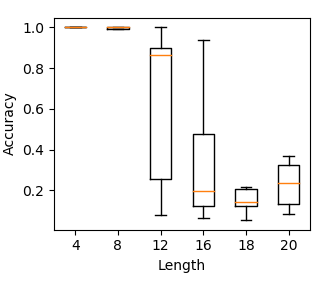
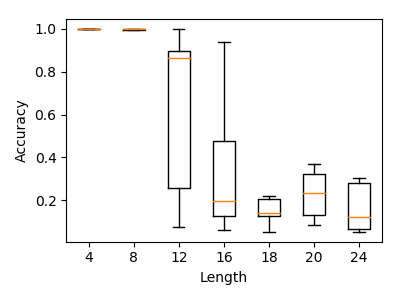
Add LSTM

Changed region(s): [[0.0, 0.0561, 0.9846, 0.9544], [0.3077, 0.0842, 0.4, 0.1123]]

diff --git a/assignment_2/report/DanielDaza-report2.tex b/assignment_2/report/DanielDaza-report2.tex
@@ -197,13 +197,13 @@ We observe an important difference in the gradients: while the gradient with res
 
 For this question we implemented the RNN equations as described in equations \ref{eq:rnn1} to \ref{eq:rnn2} using PyTorch, in order to compute the gradients with its automatic differentiation engine. 
 
-We train an RNN in the task of predicting the last digit of a palindrome number. We use a hidden size of 128, with He initialization \cite{he2015delving}, and the RMSProp optimizer with a learning rate of 0.001. We additionally clip the norm of the gradients to a maximum of 10, to avoid exploding gradients, as shown to be of importance in the last sections when doing backpropagation on RNNs.
+We train an RNN in the task of predicting the last digit of a palindrome number. We initialize the weight matrices with a uniform distribution $\mathcal{U}(-1/\sqrt{n_h}, 1/\sqrt{n_h})$, where $n_h$ is the dimension of the hidden state; and biases are initialized with zeros. We use a hidden size of 128, and the RMSProp optimizer with a learning rate of 0.001. We additionally clip the norm of the gradients to a maximum of 10, to avoid exploding gradients, as shown to be of importance in the last sections when doing backpropagation on RNNs.
 
 \subsection*{Question 1.3}
 
 We study the performance of the RNN for sequences of different lengths. We start with sequences of length 5, for which the model achieves an accuracy of 100\% in a small number of iterations. When increasing the length, more iterations are required and the final accuracy is lower. This is shown in Figure \ref{fig:rnn_acc_curves}.
 
-We experiment with increasing sequence lengths, from 4 to 20, and for each length we run 10 experiments in order to evaluate the variance of the results. As shown in Figure \ref{fig:rnn_acc_box}, training on sequences of length 4 yields an accuracy of 100\% almost always. As the length increases, the variance grows as well, and at length 12 we observe the highest variance. This indicates that in this setting, the random initialization of the parameters might produce a very accurate model, or a model with random performance, revealing a high sensitivity on the parameter initialization. For lengths higher than 16 the final performance is consistently lower. These results highlight that RNNs are problematic when modeling long sequences.
+We experiment with increasing sequence lengths, from 4 to 24, and for each length we run 10 experiments in order to evaluate the variance of the results. As shown in Figure \ref{fig:rnn_acc_box}, training on sequences of length 4 yields an accuracy of 100\% almost always. As the length increases, the variance grows as well, and at length 12 we observe the highest variance. This indicates that in this setting, the random initialization of the parameters might produce a very accurate model, or a model with random performance, revealing a high sensitivity on the parameter initialization. For lengths higher than 16 the final performance is consistently lower. These results demonstrate the fact that RNNs are problematic when modeling long sequences.
 
 \begin{figure}[t]
 \begin{subfigure}{0.49\textwidth}
@@ -227,15 +227,29 @@ We experiment with increasing sequence lengths, from 4 to 20, and for each lengt
 \label{fig:rnn_acc_box}
 \end{figure}
 
+\subsection*{Question 1.4}
 
+When doing optimization with Stochastic Gradient Descent (SGD), we update the parameters in the direction of the gradient of the loss function. This means that two parameter settings for which the gradient is the same, will be updated equally. This can be a limitation if the curvature of the loss function at the two points is different: if the curvature at a point is very low, the update will produce a small change in the loss, while if the curvature is high, the update can make a change too big in the loss function, which might end up at an even higher point. Therefore, it is sensible to include second order information of the gradient that takes into account the curvature of the loss function when updating the parameters.
 
-We run each experiment multiple times as we observed results would vary as sequence length increased
+A direct way to include second order information is to calculate the Hessian matrix, which contains the second derivatives of the loss with respect to all pairs of parameters in the network. As a consequence, evaluating this matrix has a complexity of $O(W^2)$ where $W$ is the number of parameters \cite{bishop2006pattern}. In deep learning, the number of parameters can be on the order of millions, which motivates finding alternative methods that consider curvature in the parameter updates. Two of these include momentum and adaptive learning rate.
 
-Loss curves for T = 5, 10, 15, 20
+When using momentum, we update the parameters with a moving average of the gradient, instead of the gradient only. In this way, every update takes into account previous values of the gradient, producing updates that are smoother than those of SGD.
 
-Box plots for accuracy of T = 5:20
+In SGD, every parameter is updated with the gradient multiplied by the same learning rate. During training, however, some parameters might be near the values of convergence, whereas other still need to be adjusted. It is thus reasonable to adapt the learning rate to each parameter, so that each one is affected only by its own influence on the loss function. Methods like RMSProp implement this by keeping a moving average of the squared gradients, whose inverse is used to multiply the gradient element-wise, effectively adjusting the gradients on different scales for each parameter.
 
-Show examples of predicted sequences
+\subsection*{Question 1.5}
+
+\begin{description}
+\item[a)] The LSTM is comprised by four gates:
+\begin{itemize}
+\item \textbf{Input modulation gate:} This gate prepares the previous hidden state $\mathbf{h}^{(t-1)}$ and the current input $\mathbf{x}^{(t)}$ to be processed for the current time step. It does so by applying a linear transformation to $\mathbf{h}^{(t-1)}$ and $\mathbf{x}^{(t)}$ and passing the result through a nonlinearity. The nonlinearity is required to give the network the ability to model complex a complex function of its input. The $\tanh$ function is a common choice that limits the range to the interval $(-1, 1)$, and constrains the magnitude of inputs of subsequent layers by saturating for large negative or positive inputs.
+\item \textbf{Input gate:} This gate determines the amount of the result of the input modulation gate $\mathbf{g}^{(t)}$ that is used to update the current cell state. This amount is determined by a linear transformation of the previous hidden state $\mathbf{h}^{(t-1)}$ and the current input $\mathbf{x}^{(t)}$, passed through a nonlinearity. In this case a sigmoid is used because it maps its inputs to the interval $(0,1)$, so that $\mathbf{g}^{(t)}$ is not used at all, when the input gate is 0, or used in its entirety, when the input gate is 1. The smooth, monotonic increase of the sigmoid function also allows partial use of $\mathbf{g}^{(t)}$.
+\item \textbf{Forget gate:} This gate determines how much of the previous cell state is preserved to update the current cell state, as a function of $\mathbf{h}^{(t-1)}$ and $\mathbf{x}^{(t)}$. A sigmoid is used as the nonlinearity for the same reason as the input gate.
+\item \textbf{Output gate:} This gate is used to modulate the amount of the updated current cell state used as the new hidden state $\mathbf{h}^{(t)}$, also as a function of $\mathbf{h}^{(t-1)}$ and $\mathbf{x}^{(t)}$, and using the sigmoid nonlinearity for the same reasons.
+\end{itemize}
+
+\item[b)] Let $d$ be the dimension of the input, and $n$ the number of units in the LSTM. There are 8 weight matrices in the LSTM with a size of $(n, d)$, and 4 bias vectors of size $n$. Therefore, the number of trainable parameters in the LSTM cell is $8nd + 4b$. If we took into account the linear output layer that calculates $\mathbf{p}^{(t)}$, we would have to add $k(h + 1)$ parameterers, where $k$ is the number of outputs.
+\end{description}
 
 \bibliographystyle{unsrt}
 \bibliography{refs}

diff --git a/assignment_2/part1/lstm.py b/assignment_2/part1/lstm.py
@@ -20,6 +20,8 @@ from __future__ import print_function
 
 import torch
 import torch.nn as nn
+from torch.nn import Parameter
+from torch import tanh, sigmoid
 
 ################################################################################
 
@@ -27,8 +29,51 @@ class LSTM(nn.Module):
 
     def __init__(self, seq_length, input_dim, num_hidden, num_classes, batch_size, device='cpu'):
         super(LSTM, self).__init__()
-        # Initialization here ...
+        self.wg = Parameter(torch.Tensor(num_hidden, input_dim + num_hidden))
+        self.bg = Parameter(torch.Tensor(num_hidden))
+
+        self.wi = Parameter(torch.Tensor(num_hidden, input_dim+num_hidden))
+        self.bi = Parameter(torch.Tensor(num_hidden))
+
+        self.wf = Parameter(torch.Tensor(num_hidden, input_dim + num_hidden))
+        self.bf = Parameter(torch.Tensor(num_hidden))
+
+        self.wo = Parameter(torch.Tensor(num_hidden, input_dim + num_hidden))
+        self.bo = Parameter(torch.Tensor(num_hidden))
+
+        self.wp = Parameter(torch.Tensor(num_classes, num_hidden))
+        self.bp = Parameter(torch.Tensor(num_classes))
+
+        for weight in [self.wg, self.wi, self.wf, self.wo, self.wp]:
+            nn.init.xavier_uniform_(weight)
+
+        for bias in [self.bg, self.bi, self.bo, self.bp]:
+            nn.init.zeros_(bias)
+
+        nn.init.ones_(self.bf)
+
+        self.register_buffer('h0', torch.zeros(1, num_hidden))
+        self.register_buffer('c0', torch.zeros(1, num_hidden))
 
     def forward(self, x):
-        # Implementation here ...
-        pass
+        batch_size, seq_length = x.shape
+
+        h_prev = self.h0.expand(batch_size, -1)
+        c_prev = self.c0
+
+        for t in range(seq_length):
+            x_t = x[:, t:t+1]
+            x_h = torch.cat((x_t, h_prev), dim=-1)
+
+            g = tanh(x_h.matmul(self.wg.t()) + self.bg)
+            i = sigmoid(x_h.matmul(self.wi.t()) + self.bi)
+            f = sigmoid(x_h.matmul(self.wf.t()) + self.bf)
+            o = sigmoid(x_h.matmul(self.wo.t()) + self.bo)
+
+            c = g * i + c_prev * f
+            h_prev = tanh(c) * o
+            c_prev = c
+
+        p = h_prev.matmul(self.wp.t()) + self.bp
+
+        return p

diff --git a/assignment_2/part1/train.py b/assignment_2/part1/train.py
@@ -82,9 +82,14 @@ def train(configs, input_length, log_train, _run):
     device = torch.device(configs.device)
 
     # Initialize the model that we are going to use
-    model = VanillaRNN(input_length, configs.input_dim,
-                       configs.num_hidden, configs.num_classes,
-                       configs.batch_size, configs.device).to(device)
+    if config.model_type == 'RNN':
+        model_class = VanillaRNN
+    else:
+        model_class = LSTM
+
+    model = model_class(input_length, configs.input_dim,
+                        configs.num_hidden, configs.num_classes,
+                        configs.batch_size, configs.device).to(device)
 
     # Initialize the dataset and data loader (note the +1)
     dataset = PalindromeDataset(configs.input_length + 1)
